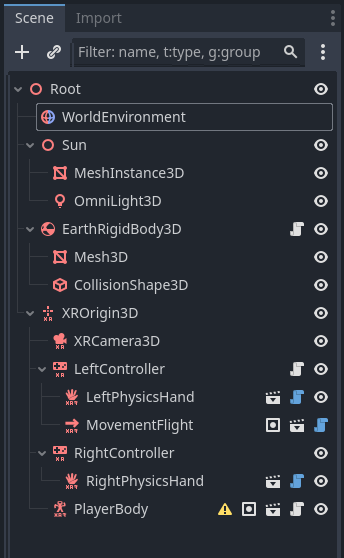
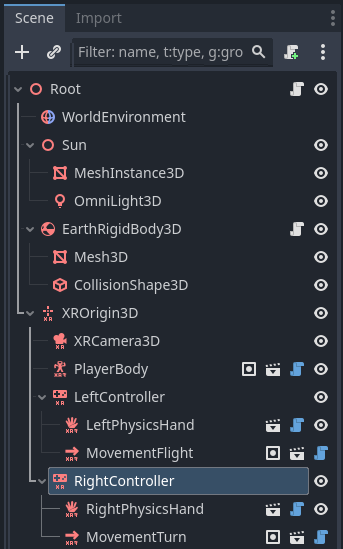
Updated screenshots and added TODO

diff --git a/blogpost.md b/blogpost.md
@@ -10,6 +10,12 @@ The making of the VR Demo for the game "Newtons Tether" which is still in develo
 
 *Author: Alex Morrell*
 
+
+**TODO**:
+- ALSO NEED TO ENABLE XR TOOLS PLUGIN
+- Talk about XR server set up script on RootNode
+- Implement teleport using appropriate player body functions
+
 ---
 
 ### Key Technologies
@@ -61,6 +67,7 @@ So when setting up my project, I made sure to select "Mobile"
 Once the project is open, we need to enable Open XR under project settings.
 
 ![SetupImg2](/images/Setup2.png)
+
 
 > While I was here, I also changed the 3D physics linear damping to 0. 
 > That could be a real ***drag*** on our orbital mechanics!
